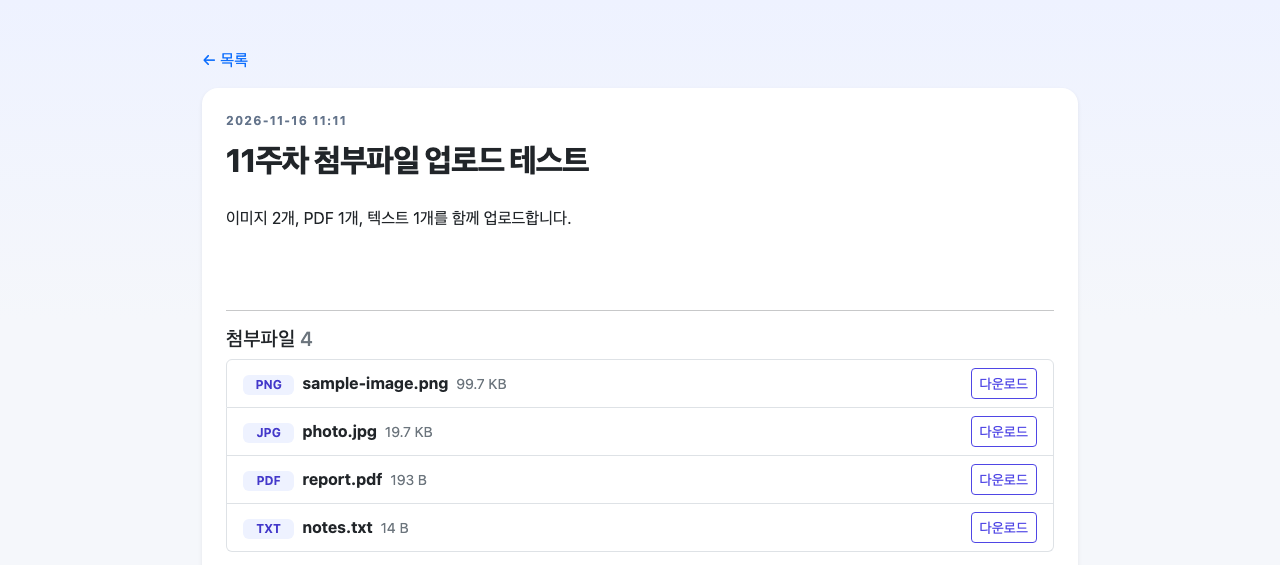
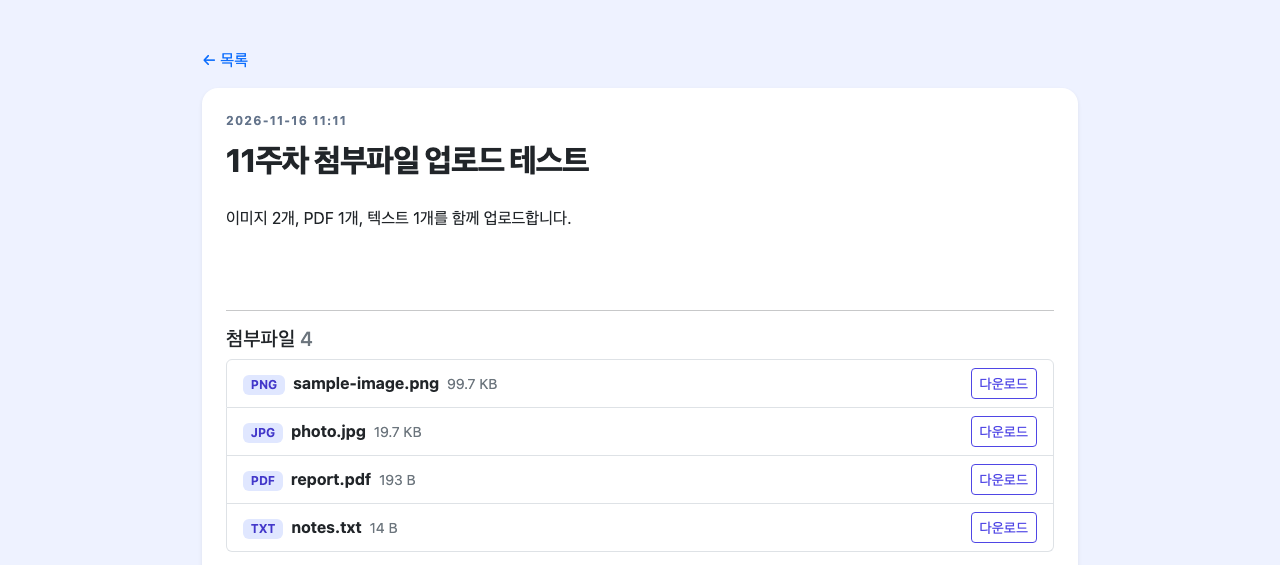
이미지 미리보기 코드 단순화

diff --git a/src/main/resources/templates/posts/detail.html b/src/main/resources/templates/posts/detail.html
@@ -1,1 +1,1 @@
-<!DOCTYPE html><html lang="ko" xmlns:th="http://www.thymeleaf.org"><head><meta charset="UTF-8"><meta name="viewport" content="width=device-width,initial-scale=1"><title>게시글 상세</title><link href="https://cdn.jsdelivr.net/npm/bootstrap@5.3.3/dist/css/bootstrap.min.css" rel="stylesheet"><link th:href="@{/css/app.css}" rel="stylesheet"></head><body><main class="container py-5" style="max-width:900px"><a th:href="@{/posts}">← 목록</a><div class="card shadow-sm mt-3"><div class="card-body p-4"><div class="eyebrow" th:text="${#temporals.format(post.createdAt,'yyyy-MM-dd HH:mm')}">작성일</div><h1 th:text="${post.title}">게시글 제목</h1><p class="post-content" th:text="${post.content}">게시글 내용</p><hr><h5>첨부파일 <span class="text-secondary" th:text="${#lists.size(post.attachments)}">0</span></h5><p class="text-secondary" th:if="${#lists.isEmpty(post.attachments)}">첨부파일이 없습니다.</p><ul class="list-group" th:if="${!#lists.isEmpty(post.attachments)}"><li class="list-group-item d-flex justify-content-between align-items-center" th:each="file : ${post.attachments}"><div><span class="badge file-type me-2" th:text="${file.extension}">PDF</span><strong th:text="${file.originalFilename}">sample.pdf</strong><small class="ms-2 text-secondary" th:text="${file.readableSize}">크기</small></div><a class="btn btn-outline-primary btn-sm" th:href="@{/attachments/{id}/download(id=${file.id})}">다운로드</a></li></ul><div class="mt-4" th:if="${!#lists.isEmpty(post.attachments.?[image])}"><h5>이미지 미리보기</h5><div class="preview-grid"><figure class="preview-item" th:each="img : ${post.attachments.?[image]}"><a th:href="@{/attachments/{id}/view(id=${img.id})}" target="_blank"><img th:src="@{/attachments/{id}/view(id=${img.id})}" th:alt="${img.originalFilename}" loading="lazy" onerror="this.closest('figure').classList.add('preview-error')"></a><figcaption th:text="${img.originalFilename}">image.png</figcaption><div class="preview-error-text">미리보기를 불러올 수 없습니다.</div></figure></div></div><div class="d-flex gap-2 mt-4"><a class="btn btn-outline-secondary" th:href="@{/posts/{id}/edit(id=${post.id})}">수정</a><form th:action="@{/posts/{id}/delete(id=${post.id})}" method="post" onsubmit="return confirm('게시글을 삭제할까요?')"><button class="btn btn-outline-danger">삭제</button></form></div></div></div></main></body></html>
+<!DOCTYPE html><html lang="ko" xmlns:th="http://www.thymeleaf.org"><head><meta charset="UTF-8"><meta name="viewport" content="width=device-width,initial-scale=1"><title>게시글 상세</title><link href="https://cdn.jsdelivr.net/npm/bootstrap@5.3.3/dist/css/bootstrap.min.css" rel="stylesheet"><link th:href="@{/css/app.css}" rel="stylesheet"></head><body><main class="container py-5" style="max-width:900px"><a th:href="@{/posts}">← 목록</a><div class="card shadow-sm mt-3"><div class="card-body p-4"><div class="eyebrow" th:text="${#temporals.format(post.createdAt,'yyyy-MM-dd HH:mm')}">작성일</div><h1 th:text="${post.title}">게시글 제목</h1><p class="post-content" th:text="${post.content}">게시글 내용</p><hr><h5>첨부파일 <span class="text-secondary" th:text="${#lists.size(post.attachments)}">0</span></h5><p class="text-secondary" th:if="${#lists.isEmpty(post.attachments)}">첨부파일이 없습니다.</p><ul class="list-group" th:if="${!#lists.isEmpty(post.attachments)}"><li class="list-group-item d-flex justify-content-between align-items-center" th:each="file : ${post.attachments}"><div><span class="badge file-type me-2" th:text="${file.extension}">PDF</span><strong th:text="${file.originalFilename}">sample.pdf</strong><small class="ms-2 text-secondary" th:text="${file.readableSize}">크기</small></div><a class="btn btn-outline-primary btn-sm" th:href="@{/attachments/{id}/download(id=${file.id})}">다운로드</a></li></ul><div class="mt-3"><div class="mb-3" th:each="file : ${post.attachments}" th:if="${file.image}"><img class="preview-img" th:src="@{/attachments/{id}/view(id=${file.id})}" alt="첨부 이미지"></div></div><div class="d-flex gap-2 mt-4"><a class="btn btn-outline-secondary" th:href="@{/posts/{id}/edit(id=${post.id})}">수정</a><form th:action="@{/posts/{id}/delete(id=${post.id})}" method="post" onsubmit="return confirm('게시글을 삭제할까요?')"><button class="btn btn-outline-danger">삭제</button></form></div></div></div></main></body></html>

diff --git a/src/main/resources/static/css/app.css b/src/main/resources/static/css/app.css
@@ -6,20 +6,11 @@ h1 { font-size:2rem; font-weight:750; letter-spacing:-0.04em; }
 .post-content { margin-top:1.5rem; white-space:pre-wrap; min-height:90px; line-height:1.8; }
 .table th { color:#64748b; font-size:.83rem; background:#f8fafc; }
 .table td, .table th { padding-top:1rem; padding-bottom:1rem; }
-:root { --accent:#4f46e5; --accent-dark:#4338ca; }
-body { background:#f5f7fb linear-gradient(180deg,#eef2ff 0,#f5f7fb 320px) no-repeat; }
+body { background:#eef2ff; }
 .subtitle { color:#64748b; margin:.4rem 0 0; }
-.btn-primary { background:var(--accent); border-color:var(--accent); }
-.btn-primary:hover, .btn-primary:focus { background:var(--accent-dark); border-color:var(--accent-dark); }
-.btn-outline-primary { color:var(--accent); border-color:var(--accent); }
-.btn-outline-primary:hover { background:var(--accent); border-color:var(--accent); }
-.table th { background:#eef2ff; color:#4338ca; }
-.table tbody a { color:var(--accent-dark); font-weight:600; }
-.file-type { background:#eef2ff; color:#4338ca; font-weight:700; min-width:3.2rem; }
-.preview-grid { display:grid; grid-template-columns:repeat(auto-fill,minmax(200px,1fr)); gap:1rem; margin-top:.8rem; }
-.preview-item { margin:0; background:#f8fafc; border:1px solid #e2e8f0; border-radius:12px; overflow:hidden; }
-.preview-item img { display:block; width:100%; height:180px; object-fit:cover; background:#e2e8f0; }
-.preview-item figcaption { padding:.5rem .75rem; font-size:.85rem; color:#475569; overflow:hidden; text-overflow:ellipsis; white-space:nowrap; }
-.preview-error-text { display:none; padding:0 .75rem .6rem; font-size:.85rem; color:#dc2626; }
-.preview-error img { display:none; }
-.preview-error .preview-error-text { display:block; }
+.btn-primary { background:#4f46e5; border-color:#4f46e5; }
+.btn-outline-primary { color:#4f46e5; border-color:#4f46e5; }
+.btn-outline-primary:hover { background:#4f46e5; border-color:#4f46e5; }
+.table th { background:#e0e7ff; color:#4338ca; }
+.file-type { background:#e0e7ff; color:#4338ca; }
+.preview-img { max-width:100%; max-height:300px; border-radius:12px; }

diff --git a/src/main/resources/templates/error.html b/src/main/resources/templates/error.html
@@ -1,1 +1,1 @@
-<!DOCTYPE html><html lang="ko" xmlns:th="http://www.thymeleaf.org"><head><meta charset="UTF-8"><meta name="viewport" content="width=device-width,initial-scale=1"><title>오류</title><link href="https://cdn.jsdelivr.net/npm/bootstrap@5.3.3/dist/css/bootstrap.min.css" rel="stylesheet"><link th:href="@{/css/app.css}" rel="stylesheet"></head><body><main class="container py-5" style="max-width:640px"><div class="card shadow-sm"><div class="card-body p-5 text-center"><div class="eyebrow" th:text="${status} + ' ' + ${error}">404 Not Found</div><h1 th:text="${status == 400 ? '잘못된 요청입니다.' : (message != null and message != '' and message != 'No message available' ? message : '요청을 처리할 수 없습니다.')}">요청을 처리할 수 없습니다.</h1><p class="text-secondary mt-3" th:text="${path}">/path</p><a class="btn btn-primary mt-2" th:href="@{/posts}">목록으로 돌아가기</a></div></div></main></body></html>
+<!DOCTYPE html><html lang="ko" xmlns:th="http://www.thymeleaf.org"><head><meta charset="UTF-8"><meta name="viewport" content="width=device-width,initial-scale=1"><title>오류</title><link href="https://cdn.jsdelivr.net/npm/bootstrap@5.3.3/dist/css/bootstrap.min.css" rel="stylesheet"><link th:href="@{/css/app.css}" rel="stylesheet"></head><body><main class="container py-5" style="max-width:640px"><div class="card shadow-sm"><div class="card-body p-5 text-center"><div class="eyebrow" th:text="${status} + ' ' + ${error}">404 Not Found</div><h1 th:if="${status == 400}">잘못된 요청입니다.</h1><h1 th:unless="${status == 400}" th:text="${message}">첨부파일이 없습니다.</h1><a class="btn btn-primary mt-3" th:href="@{/posts}">목록으로 돌아가기</a></div></div></main></body></html>

diff --git a/src/main/java/edu/handong/web11/controller/AttachmentController.java b/src/main/java/edu/handong/web11/controller/AttachmentController.java
@@ -43,7 +43,6 @@ public class AttachmentController {
         return ResponseEntity.ok()
             .contentType(MediaType.parseMediaType(file.getContentType()))
             .header(HttpHeaders.CONTENT_DISPOSITION, disposition)
-            .header("X-Content-Type-Options", "nosniff")
             .body(resource);
     }
 }
